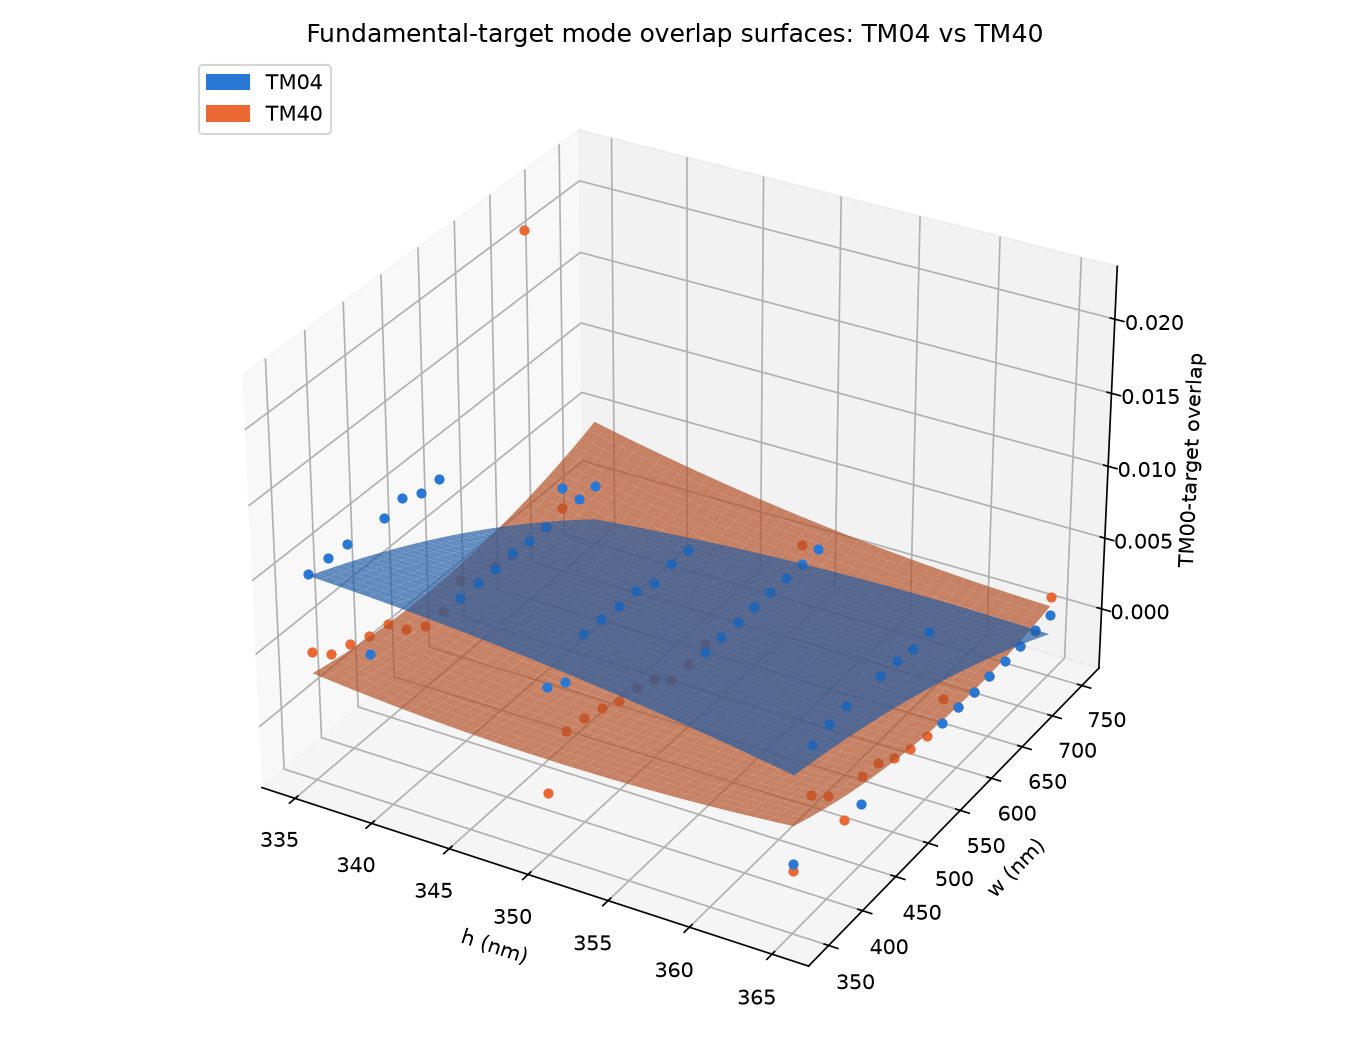
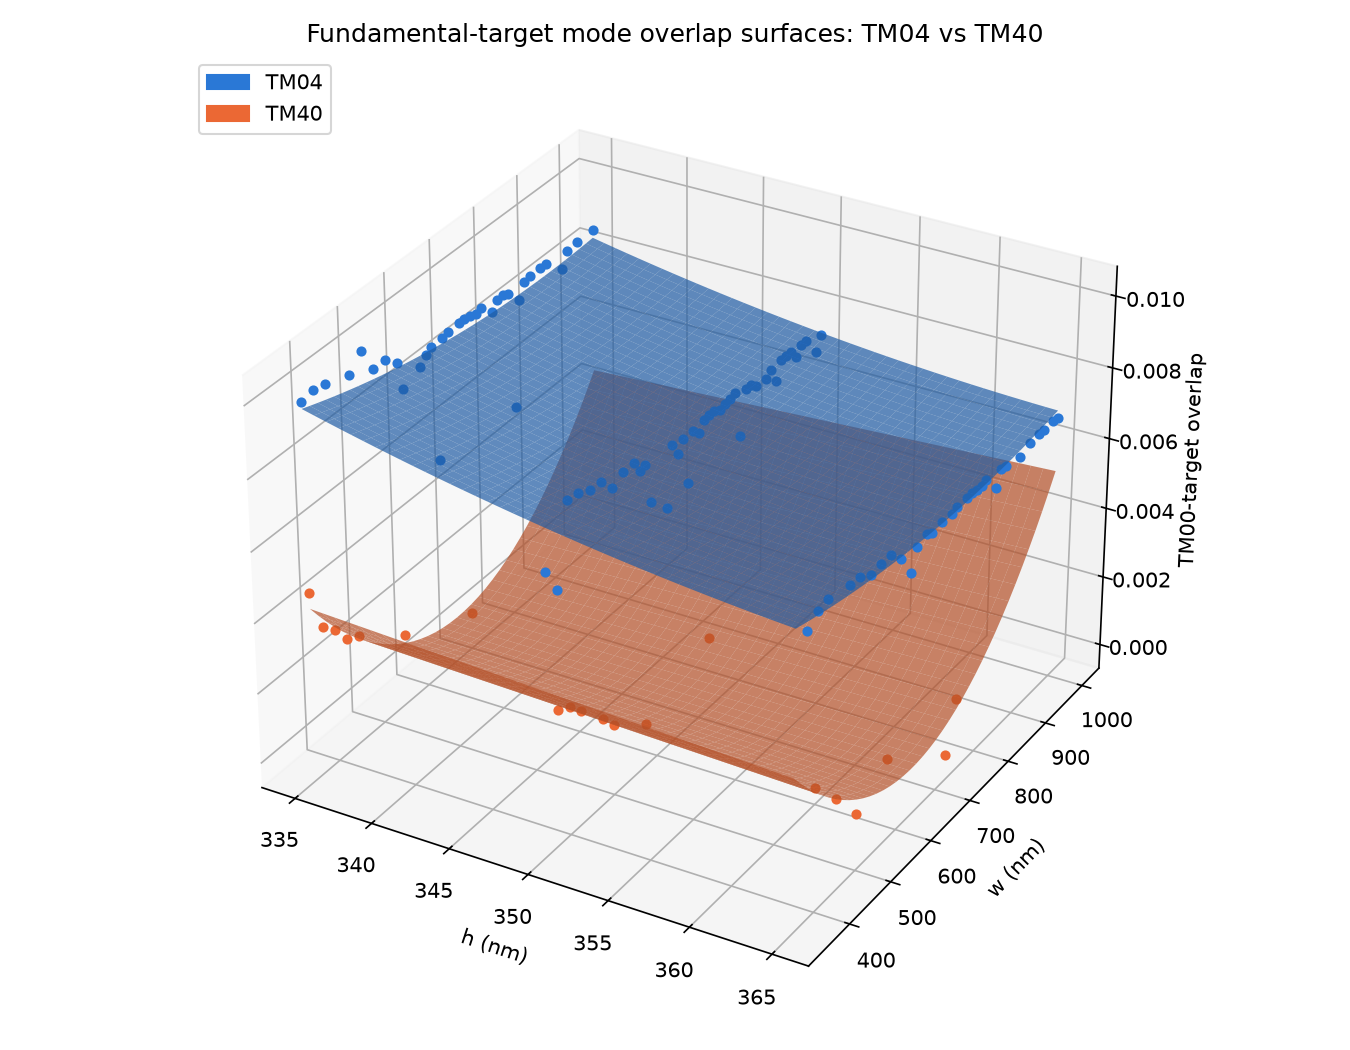
Fix num_modes inconsistency in Steps 4/5/8; finalize TM40 cleanup; housekeeping
Steps 4/5/8 were re-solving each point's target mode with num_modes=mode_idx+10
instead of that mode's own configured num_modes, risking a different physical
mode landing at the same index (same instability as across geometry/wavelength).
TM40's walk surfaced this clearly: all 10 points it fixed this session (walk
overlaps up to 0.999) still failed visual review, a 100% failure rate that
pointed at the re-solve rather than the walk. Fixed all three call sites to use
each mode's configured num_modes consistently.

EXCLUDED_POINTS now covers 27 TM40 points (16 legacy-bad + the 10 above, pending
re-verification with the fix) alongside TM04's existing 18, leaving 20
visually-confirmed-good TM40 points for its surface fit.

Housekeeping: move the ad-hoc h=335/h=350 mode investigation into reference/
alongside the repo's other prior-work material.

diff --git a/phase_matching_pipeline/emode_helpers.py b/phase_matching_pipeline/emode_helpers.py
@@ -407,7 +407,11 @@ def format_table(rows):
     header = " | ".join(f"{label:<12}" for _, _, label in columns)
     lines = [header, "-" * len(header)]
     for r in rows:
-        lines.append(" | ".join(f"{fmt.format(r[key]):<12}" for key, fmt, _ in columns))
+        # a gradient column can be None if mode_gradient_width_height's overlap_threshold check
+        # rejected the underlying perturbation as unreliable (see emode_helpers.py) -- show 'n/a'
+        # rather than crashing on NoneType.__format__
+        lines.append(" | ".join((f"{fmt.format(r[key]):<12}" if r[key] is not None else f"{'n/a':<12}")
+                                 for key, fmt, _ in columns))
     return "\n".join(lines)
 
 
